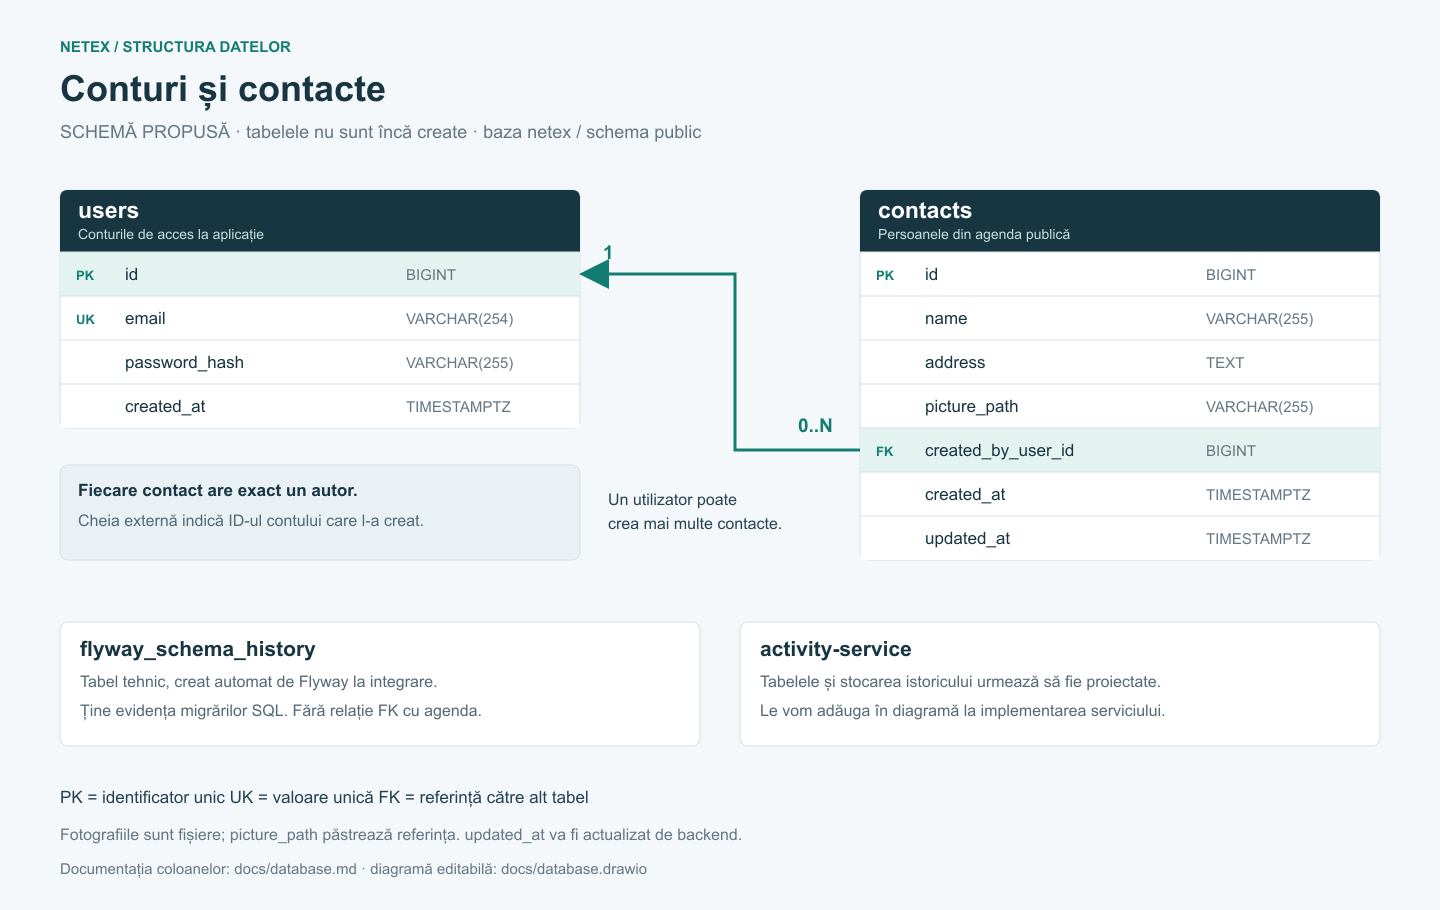
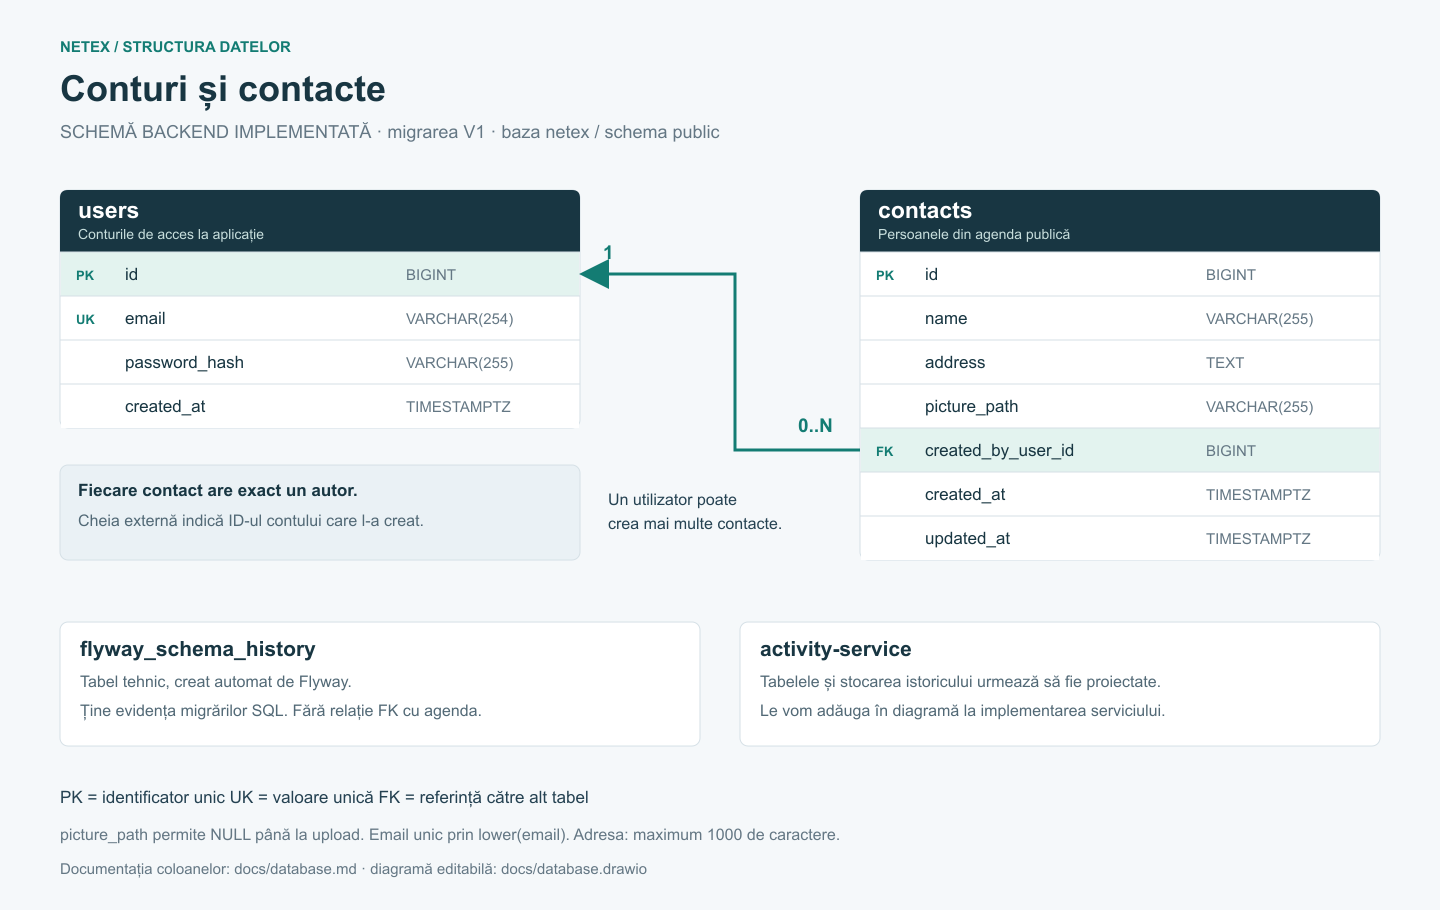
Connect PostgreSQL and create users and contacts with Flyway

Changed region(s): [[0.0312, 0.8923, 0.5938, 0.9231], [0.0938, 0.1231, 0.5, 0.1538], [0.25, 0.7385, 0.3125, 0.7692]]

diff --git a/backend/src/test/java/com/netex/addressbook/DatabaseSchemaTest.java b/backend/src/test/java/com/netex/addressbook/DatabaseSchemaTest.java
@@ -1,0 +1,103 @@
+package com.netex.addressbook;
+
+import org.flywaydb.core.Flyway;
+import org.junit.jupiter.api.Test;
+import org.springframework.beans.factory.annotation.Autowired;
+import org.springframework.boot.test.autoconfigure.web.servlet.AutoConfigureMockMvc;
+import org.springframework.boot.test.context.SpringBootTest;
+import org.springframework.context.annotation.Import;
+import org.springframework.dao.DataIntegrityViolationException;
+import org.springframework.dao.DuplicateKeyException;
+import org.springframework.jdbc.core.JdbcTemplate;
+import org.springframework.transaction.annotation.Transactional;
+
+import static org.assertj.core.api.Assertions.assertThat;
+import static org.assertj.core.api.Assertions.assertThatThrownBy;
+
+@SpringBootTest
+@AutoConfigureMockMvc
+@Import(PostgresTestConfiguration.class)
+class DatabaseSchemaTest {
+
+    @Autowired
+    private JdbcTemplate jdbc;
+
+    @Autowired
+    private Flyway flyway;
+
+    @Test
+    void startupMigratesAnEmptyDatabaseAndDoesNotReapplyTheMigration() {
+        assertThat(jdbc.queryForList(
+                "SELECT tablename FROM pg_tables WHERE schemaname = 'public'", String.class))
+                .contains("users", "contacts", "flyway_schema_history");
+        assertThat(jdbc.queryForObject(
+                "SELECT count(*) FROM flyway_schema_history WHERE version = '1' AND success", Integer.class))
+                .isEqualTo(1);
+        assertThat(flyway.migrate().migrationsExecuted).isZero();
+    }
+
+    @Test
+    @Transactional
+    void aContactReferencesItsAuthorAndGetsGeneratedIdAndTimestamps() {
+        Long authorId = createUser("author@example.com");
+        Long contactId = jdbc.queryForObject("""
+                INSERT INTO contacts (name, address, created_by_user_id)
+                VALUES (?, ?, ?) RETURNING id
+                """, Long.class, "Maria Popescu", "Strada Exemplu 10", authorId);
+
+        assertThat(contactId).isPositive();
+        assertThat(jdbc.queryForObject("""
+                SELECT u.email FROM contacts c JOIN users u ON u.id = c.created_by_user_id
+                WHERE c.id = ?
+                """, String.class, contactId)).isEqualTo("author@example.com");
+        assertThat(jdbc.queryForObject("""
+                SELECT created_at IS NOT NULL AND updated_at = created_at AND picture_path IS NULL
+                FROM contacts WHERE id = ?
+                """, Boolean.class, contactId)).isTrue();
+    }
+
+    @Test
+    @Transactional
+    void duplicateEmailsAreRejectedRegardlessOfLetterCase() {
+        createUser("ana@example.com");
+        assertThatThrownBy(() -> createUser("ANA@example.com"))
+                .isInstanceOf(DuplicateKeyException.class);
+    }
+
+    @Test
+    @Transactional
+    void aContactCannotReferenceAMissingAuthor() {
+        assertThatThrownBy(() -> jdbc.update("""
+                INSERT INTO contacts (name, address, created_by_user_id)
+                VALUES ('Maria', 'Strada Exemplu 10', -1)
+                """))
+                .isInstanceOf(DataIntegrityViolationException.class);
+    }
+
+    @Test
+    @Transactional
+    void deletingAnAuthorDoesNotSilentlyDeleteTheirContacts() {
+        Long authorId = createUser("owner@example.com");
+        jdbc.update("INSERT INTO contacts (name, address, created_by_user_id) VALUES (?, ?, ?)",
+                "Maria", "Strada Exemplu 10", authorId);
+        assertThatThrownBy(() -> jdbc.update("DELETE FROM users WHERE id = ?", authorId))
+                .isInstanceOf(DataIntegrityViolationException.class);
+    }
+
+    @Test
+    @Transactional
+    void blankContactNamesAreRejected() {
+        Long authorId = createUser("validation@example.com");
+        assertThatThrownBy(() -> jdbc.update(
+                "INSERT INTO contacts (name, address, created_by_user_id) VALUES (?, ?, ?)",
+                "   ", "Strada Exemplu 10", authorId))
+                .isInstanceOf(DataIntegrityViolationException.class);
+    }
+
+    private Long createUser(String email) {
+        // Test-only placeholder: real hashes will be produced by Spring Security.
+        return jdbc.queryForObject(
+                "INSERT INTO users (email, password_hash) VALUES (?, ?) RETURNING id",
+                Long.class, email, "test-only-hash");
+    }
+}

diff --git a/backend/src/test/java/com/netex/addressbook/HealthEndpointTest.java b/backend/src/test/java/com/netex/addressbook/HealthEndpointTest.java
@@ -4,6 +4,7 @@ import org.junit.jupiter.api.Test;
 import org.springframework.beans.factory.annotation.Autowired;
 import org.springframework.boot.test.autoconfigure.web.servlet.AutoConfigureMockMvc;
 import org.springframework.boot.test.context.SpringBootTest;
+import org.springframework.context.annotation.Import;
 import org.springframework.test.web.servlet.MockMvc;
 
 import static org.springframework.test.web.servlet.request.MockMvcRequestBuilders.get;
@@ -12,6 +13,7 @@ import static org.springframework.test.web.servlet.result.MockMvcResultMatchers.
 
 @SpringBootTest
 @AutoConfigureMockMvc
+@Import(PostgresTestConfiguration.class)
 class HealthEndpointTest {
 
     @Autowired

diff --git a/backend/src/test/java/com/netex/addressbook/PostgresTestConfiguration.java b/backend/src/test/java/com/netex/addressbook/PostgresTestConfiguration.java
@@ -1,0 +1,16 @@
+package com.netex.addressbook;
+
+import org.springframework.boot.test.context.TestConfiguration;
+import org.springframework.boot.testcontainers.service.connection.ServiceConnection;
+import org.springframework.context.annotation.Bean;
+import org.testcontainers.containers.PostgreSQLContainer;
+
+@TestConfiguration(proxyBeanMethods = false)
+class PostgresTestConfiguration {
+
+    @Bean
+    @ServiceConnection
+    PostgreSQLContainer<?> postgresContainer() {
+        return new PostgreSQLContainer<>("postgres:17.11");
+    }
+}

diff --git a/README.md b/README.md
@@ -2,7 +2,7 @@
 
 A Java 25 / Spring Boot address book with a React + TypeScript frontend.
 
-**Current milestone: step 1 complete; step 2 in progress.** Both Java applications run independently, and the frontend checks the main API through a development proxy. Docker Compose now starts a local PostgreSQL database. The backend database connection and SQL migrations are the next part of step 2. Contact management, authentication, Kafka and business HTTP interaction remain planned; Compose currently runs PostgreSQL only.
+**Current milestone: steps 1 and 2 implemented.** Docker Compose starts PostgreSQL, and the main API connects to it using Spring JDBC. Flyway creates the users and contacts tables on startup. Both Java applications run independently, and the frontend checks the main API through a development proxy. Contact management, authentication, Kafka and business HTTP interaction remain planned; Compose currently runs PostgreSQL only.
 
 ## Repository layout
 
@@ -12,7 +12,7 @@ frontend/          React, TypeScript, Vite
 microservice/      activity-service: Spring Boot, Maven
 docs/API.md        implemented and planned HTTP endpoints
 docs/database.md   table inventory, relationship diagram and DBeaver walkthrough
-docs/database.svg  visual database diagram (proposed schema)
+docs/database.svg  visual database diagram (implemented backend schema)
 docs/database.png  image preview of the database diagram
 docs/database.drawio editable database diagram for draw.io / diagrams.net
 compose.yaml       local PostgreSQL container and persistent volume
@@ -29,7 +29,7 @@ Each Java application has its own `pom.xml` and Maven Wrapper. Each app is start
 
 Maven **3.9.16** is downloaded by the committed wrapper; no separate Maven installation is required. Both services use Spring Boot **3.5.16**. Frontend dependency versions are recorded in `frontend/package-lock.json`.
 
-Docker Desktop/Engine with Compose is required for PostgreSQL. The Java and React skeletons still run without a database connection. For a visual database client, use DBeaver Community.
+Docker Desktop/Engine with Compose is required for PostgreSQL. Start the database before the main API. The activity service does not use a database yet. Backend integration tests also require Docker and create their own temporary PostgreSQL instance. For a visual database client, use DBeaver Community.
 
 ## Start PostgreSQL
 
@@ -49,7 +49,7 @@ On macOS/Linux, use `cp .env.example .env` for the initial copy. The root `.env`
 
 Connect with DBeaver to `localhost:5432`, database `netex`, user `netex`, and the password from the root `.env`. If you customize the database or user, use those values instead. See [the visual database walkthrough](docs/database.md).
 
-At this checkpoint the database has no application tables. Flyway and the backend database connection are not implemented yet. The database username is a PostgreSQL account, separate from future address book user accounts.
+The first backend startup applies `backend/src/main/resources/db/migration/V1__create_users_and_contacts.sql`. Refresh DBeaver afterwards to see `users`, `contacts` and `flyway_schema_history`. The application tables start empty; there are no demo users or contacts. The database username is a PostgreSQL account, separate from future address book user accounts.
 
 `docker compose stop postgres` stops the database. The named volume keeps its data for the next start. Initialization variables only apply to an empty volume; editing the password in `.env` does not change an existing database password.
 
@@ -63,17 +63,23 @@ PowerShell:
 
 ```powershell
 cd backend
-.\mvnw.cmd spring-boot:run
+.\mvnw.cmd spring-boot:run "-Dspring-boot.run.profiles=local"
 ```
 
 macOS / Linux:
 
 ```sh
 cd backend
-./mvnw spring-boot:run
+./mvnw spring-boot:run -Dspring-boot.run.profiles=local
 ```
 
 Health endpoint: <http://localhost:8080/api/health>
+
+The `local` Spring profile loads the root `.env` using `application-local.properties`. Run from `backend/`, so `../.env` points to the correct file. Use plain `KEY=value` lines in `.env`, without shell `export`, surrounding quotes or variable expansion. Generated hexadecimal passwords work with both Compose and Spring's properties reader.
+
+Without the `local` profile (for example, when the backend later runs in Docker), supply `POSTGRES_HOST`, `POSTGRES_PORT`, `POSTGRES_DB`, `POSTGRES_USER` and `POSTGRES_PASSWORD` as environment variables. Defaults are localhost, 5432, netex and netex; there is no default password. The standard `SPRING_DATASOURCE_URL` can override the complete JDBC URL. Compose's PostgreSQL port mapping remains 5432 unless you also change `compose.yaml`.
+
+Flyway applies each migration once and validates it on later starts. Add a new migration for schema changes; do not edit an already applied migration. The main API now needs an available database to start, and its health check includes database connectivity. Database details remain hidden in the public response.
 
 ### Terminal 2: activity service
 
@@ -125,7 +131,12 @@ For an optional backend port override, set `SERVER_PORT` in that backend termina
 
 ## IntelliJ IDEA and VS Code
 
-Open `backend/` in IntelliJ IDEA and import its Maven project. Select JDK 25 as the Project SDK and Maven runner JRE, then run `ContactsApiApplication`.
+Open `backend/` in IntelliJ IDEA and import its Maven project. Reload Maven after dependency changes and select JDK 25 as the Project SDK and Maven runner JRE. In **Run → Edit Configurations**, select the configuration for `ContactsApiApplication` and set:
+
+- **Program arguments:** `--spring.profiles.active=local`
+- **Working directory:** the absolute path of this repository's `backend` folder
+
+If Program arguments is hidden, enable it through **Modify options**. Start PostgreSQL using Compose, then run the application. This works with a standard Java Application run configuration; a dedicated Spring UI is not required. The local profile reads the password from the ignored root `.env`.
 
 Open `microservice/` as a second IntelliJ project and run `ActivityServiceApplication`. Open `frontend/` in VS Code and use its terminal for npm commands.
 
@@ -152,6 +163,8 @@ The build includes TypeScript checking. `npm run typecheck` runs that check sepa
 
 The Java integration tests verify the public health path and that internal management information is not exposed. Spring Boot Actuator supplies these health endpoints; no custom health controller is needed.
 
+The backend tests use Testcontainers (test-only dependencies) with PostgreSQL 17.11 on a dynamically assigned port. They need Docker, but do not require a root `.env`, the `local` profile or the development database. The tests apply V1 to an empty database, check migration re-execution, identity/timestamp defaults, case-insensitive email uniqueness, the author foreign key, deletion restrictions and blank-name rejection. Test data is confined to that temporary instance. The container is removed after the test process ends.
+
 With all apps running, check:
 
 - Both Java health endpoints return HTTP 200 with `{"status":"UP"}`.
@@ -160,4 +173,4 @@ With all apps running, check:
 
 ## Next milestone
 
-After the first DBeaver connection, write Flyway SQL migrations for users and contacts and connect the main API to PostgreSQL. See [PROJECT_CONTEXT.md](PROJECT_CONTEXT.md) for the full plan.
+Step 3 implements the contacts API on top of this schema. Photo paths are temporarily nullable until the upload feature is implemented. See [PROJECT_CONTEXT.md](PROJECT_CONTEXT.md) for the full plan.

diff --git a/docs/API.md b/docs/API.md
@@ -2,14 +2,14 @@
 
 This document separates working endpoints from planned endpoints. The planned API describes the agreed direction; it does not mean the features already exist.
 
-## Implemented in step 1
+## Implemented endpoints (steps 1–2)
 
 | Application | Method and path | Success response |
 | --- | --- | --- |
 | contacts-api (8080) | `GET /api/health` | HTTP 200, `{"status":"UP"}` |
 | activity-service (8081) | `GET /internal/health` | HTTP 200, `{"status":"UP"}` |
 
-These are Spring Boot Actuator endpoints. Only health is exposed and component details are hidden. At this milestone, UP means the Java application is running; it does not prove that SQL, Kafka or business operations work.
+These are Spring Boot Actuator endpoints. Only health is exposed and component details are hidden. Since step 2, the main API's health includes a database connectivity check: a database failure can produce HTTP 503 with `{"status":"DOWN"}`. Flyway applies the SQL schema during startup; a successful health response is not a test of contact operations or Kafka. The activity service's health still only covers its standalone application, with no SQL or Kafka integration.
 
 The frontend calls the main API via Vite's `/api` proxy. The frontend does not call the activity service directly.
 
